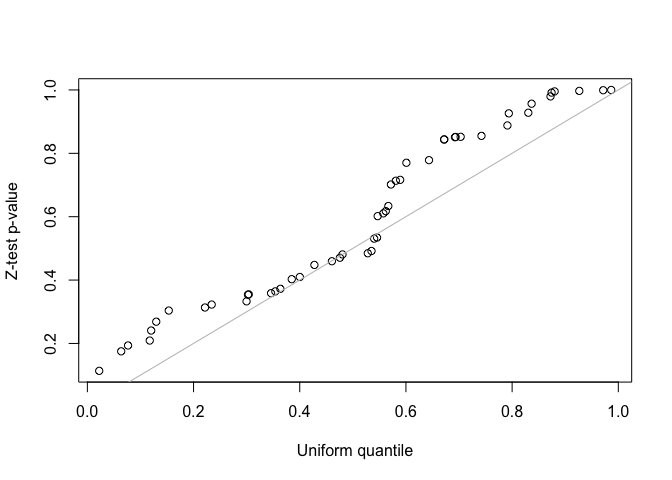
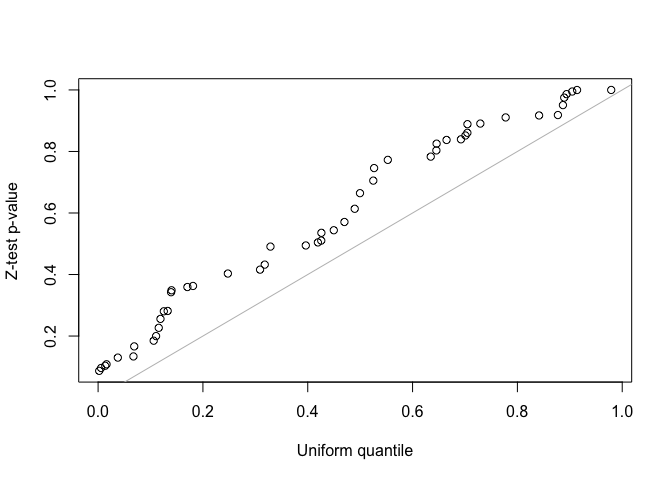
Initial commit

diff --git a/README.md b/README.md
@@ -196,8 +196,9 @@ with two-component random effects.
 ## Design matrix for two-component random effects, Za: Suppose the data
 ## contains the measurement time points, denoted as 'time', which are randomly
 ## generated.
-set.seed(250801)
-metadata$time <- runif(nrow(X))
+set.seed(2508)
+n <- nrow(metadata)
+metadata$time <- runif(n) + runif(n, 2, 3) * sample(0:1, n, replace = TRUE)
 Za <- model.matrix(~0 + sam + sam:time, data = metadata)
 da <- c(ncol(Za)/2, ncol(Za)/2)  #dimension
 
